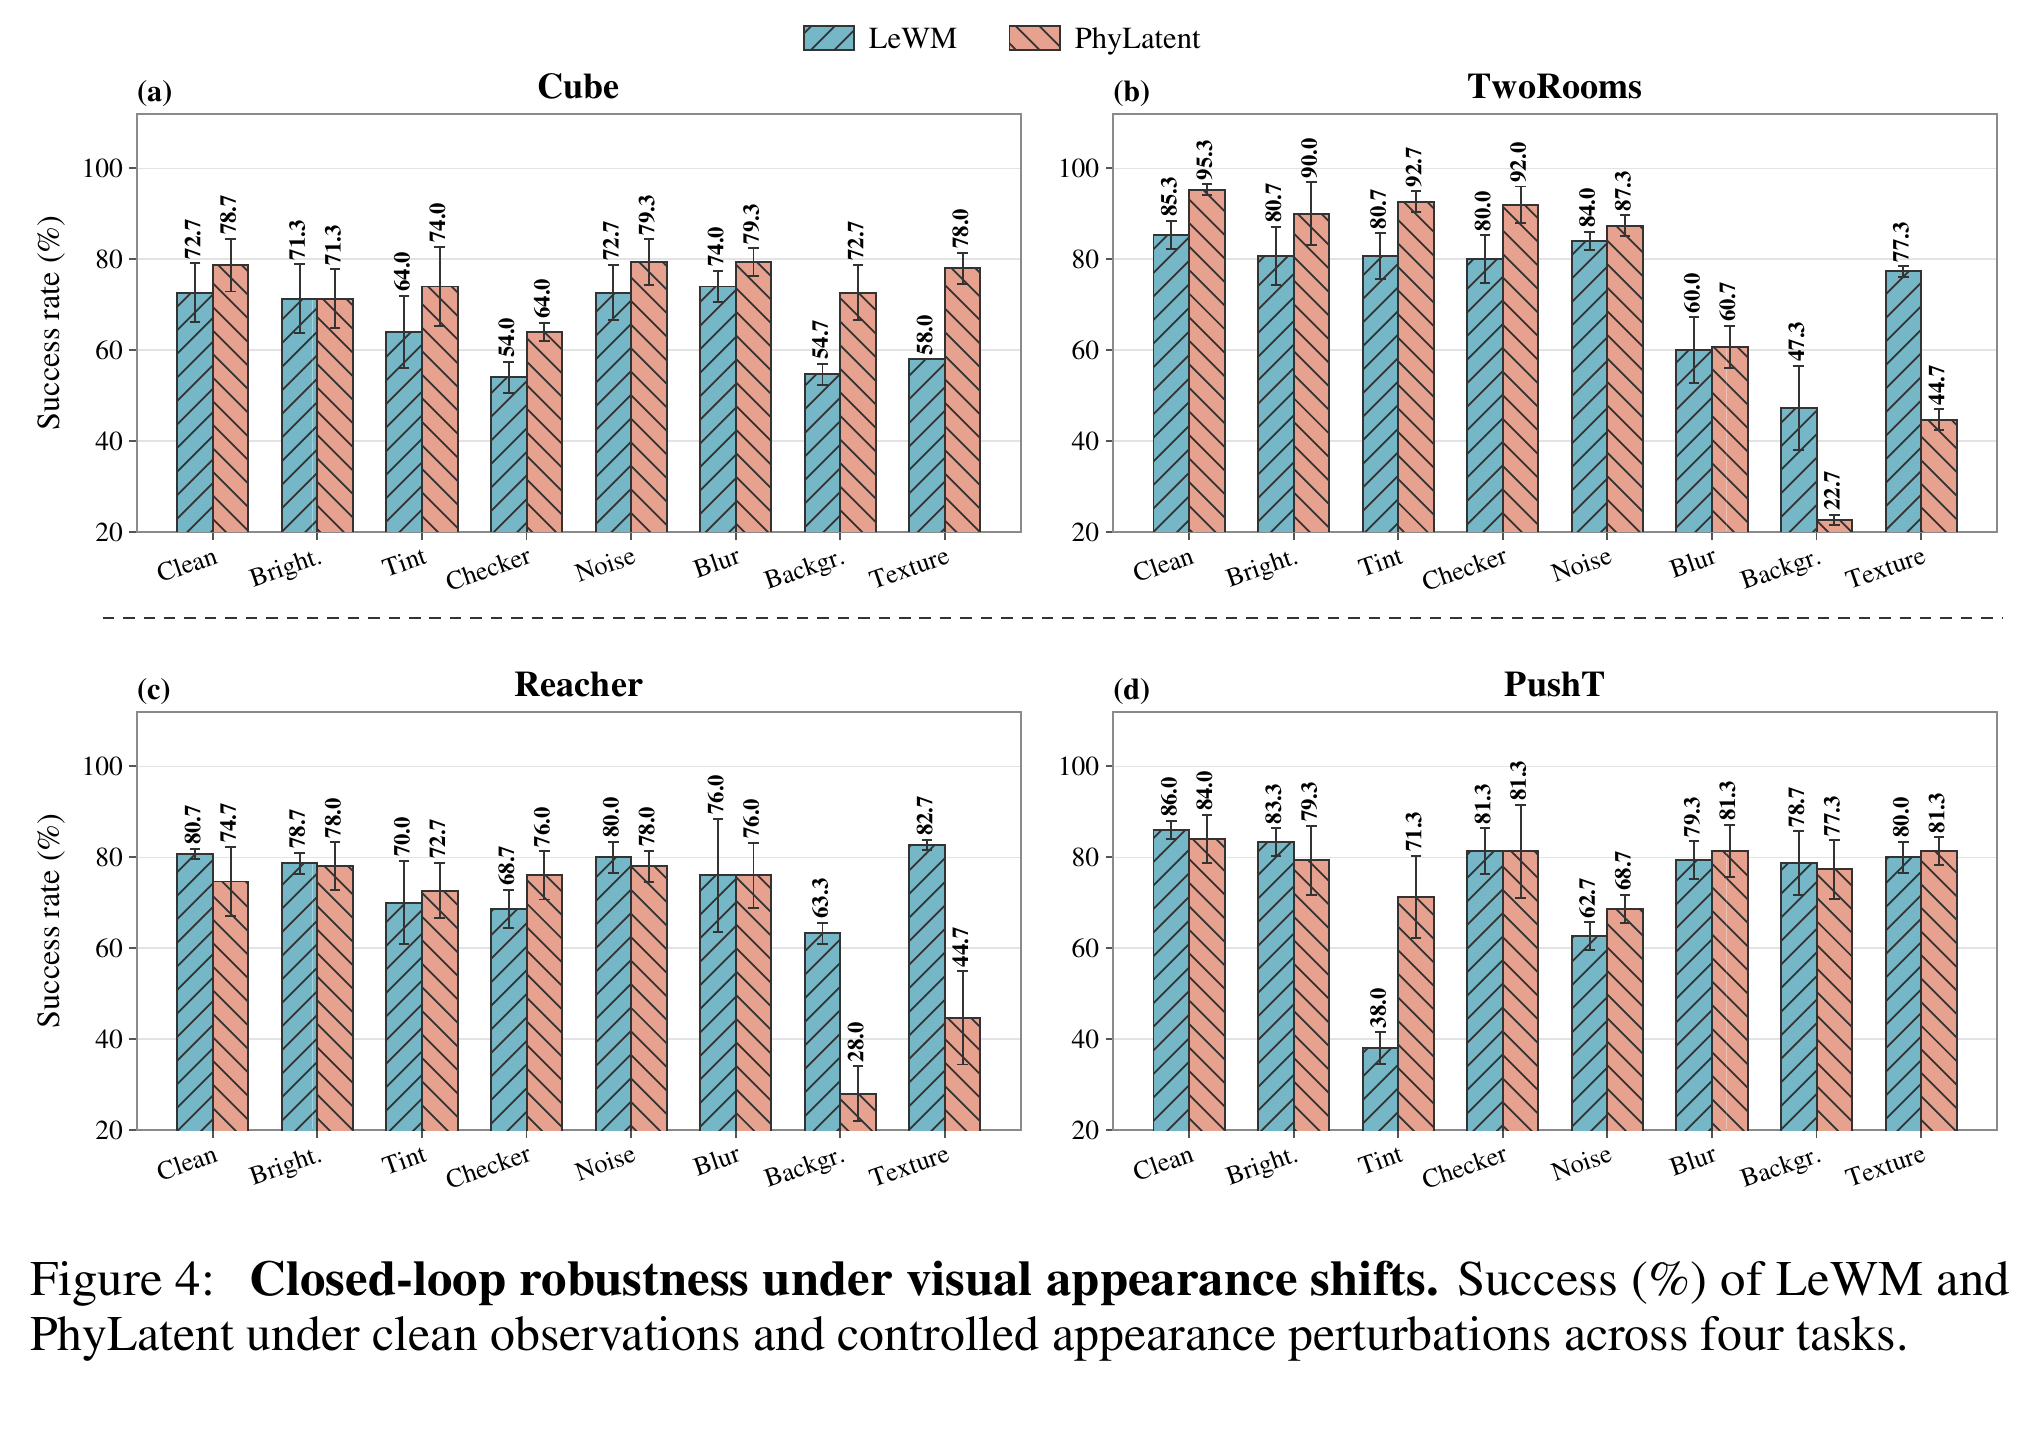
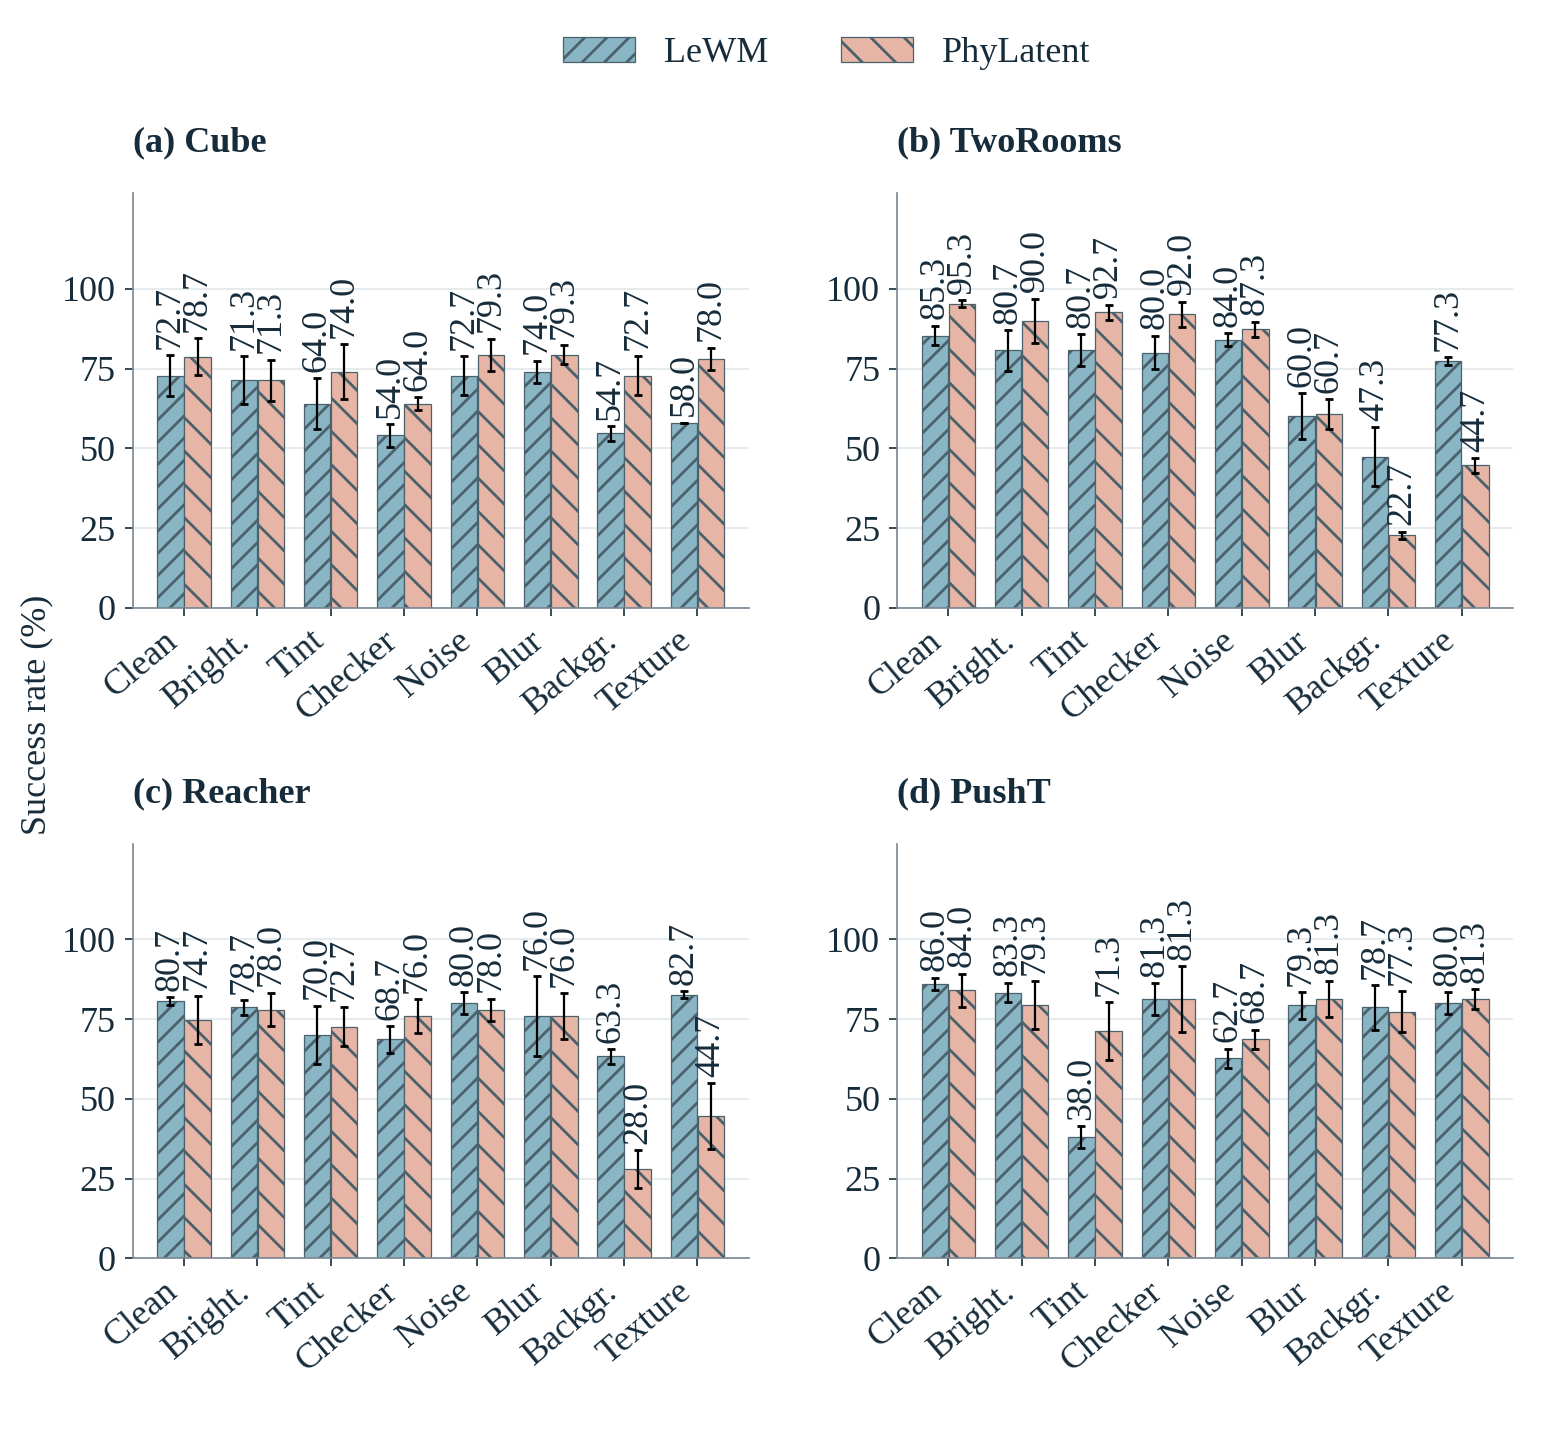
Redesign homepage and add paper experiment tables

diff --git a/README.md b/README.md
@@ -68,7 +68,9 @@ results support improving latent structure as a way to strengthen JEPA world mod
 
 ### Visualizing the diagnostics
 
-[![Cube collapse diagnostics](assets/readme/cube_cover_en.svg)](assets/videos/cube_three_cases_en.mp4?raw=true)
+<p align="center">
+  <a href="assets/videos/cube_three_cases_en.mp4?raw=true"><img src="assets/readme/cube_cover_en.svg" alt="Cube collapse diagnostics" width="780"></a>
+</p>
 
 [Download the Cube diagnostics video (MP4)](assets/videos/cube_three_cases_en.mp4?raw=true).
 The video illustrates the three diagnostic failures and shows LeWM / PhyLatent execution side by side.
@@ -81,7 +83,9 @@ More observation examples are in the [visual guide](docs/visualizations.md).
 With the same backbone and planner, PhyLatent raises average success over LeWM from **79.92% to 86.54%**.
 The largest gains are on Cube and TwoRooms; Reacher is effectively tied.
 
-[![Table 1. Planning success across four tasks](assets/results/planning_success.png)](https://arxiv.org/pdf/2608.05720#page=6)
+<p align="center">
+  <a href="https://arxiv.org/pdf/2608.05720#page=6"><img src="assets/results/planning_success.png" alt="Table 1. Planning success across four tasks" width="780"></a>
+</p>
 
 <sub>Table 1 · Success (%), mean ± standard deviation across six evaluation seeds. PLDM and DINO-WM are previously reported baselines.</sub>
 
@@ -90,7 +94,9 @@ The largest gains are on Cube and TwoRooms; Reacher is effectively tied.
 We measure whether physical relationships survive appearance changes, state encoding and future prediction.
 Collapse rates decrease across the four tasks; the counterfactual change on Reacher is small.
 
-[![Table 2. Invariance, distinguishability and counterfactual collapse rates](assets/results/collapse_rates.png)](https://arxiv.org/pdf/2608.05720#page=7)
+<p align="center">
+  <a href="https://arxiv.org/pdf/2608.05720#page=7"><img src="assets/results/collapse_rates.png" alt="Table 2. Invariance, distinguishability and counterfactual collapse rates" width="780"></a>
+</p>
 
 <sub>Table 2 · Lower is better. Inv.: invariance; Dist.: distinguishability; CF-H5: counterfactual dynamics at the planning horizon of five blocks.</sub>
 
@@ -102,26 +108,38 @@ Collapse rates decrease across the four tasks; the counterfactual change on Reac
 On Cube, PhyLatent handles background and texture changes better. The response varies by task;
 large appearance shifts remain difficult for TwoRooms and Reacher.
 
-[![Figure 4. Success under visual appearance shifts](assets/results/appearance_robustness.png)](https://arxiv.org/pdf/2608.05720#page=7)
+<p align="center">
+  <a href="https://arxiv.org/pdf/2608.05720#page=7"><img src="assets/results/appearance_robustness.png" alt="Figure 4. Success under visual appearance shifts" width="780"></a>
+</p>
+
+<sub>Success (%); error bars show the across-seed standard deviation.</sub>
 
 ### Planning over larger goal separations
 
 The paper tests temporal goal offsets and physical displacement. In Cube's largest displacement group,
 success rises from **26.67% to 60.00%**.
 
-[![Figure 5. Planning under increasing goal separation](assets/results/goal_separation.png)](https://arxiv.org/pdf/2608.05720#page=9)
+<p align="center">
+  <a href="https://arxiv.org/pdf/2608.05720#page=9"><img src="assets/results/goal_separation.png" alt="Figure 5. Planning under increasing goal separation" width="780"></a>
+</p>
 
 ### Supervision and objective weights
 
-[![Table 3. Privileged-state supervision and auxiliary-weight controls](assets/results/supervision_controls.png)](https://arxiv.org/pdf/2608.05720#page=8)
+<p align="center">
+  <a href="https://arxiv.org/pdf/2608.05720#page=8"><img src="assets/results/supervision_controls.png" alt="Table 3. Privileged-state supervision and auxiliary-weight controls" width="780"></a>
+</p>
+
+<sub>Success (%), with mean ± across-seed standard deviation for the weight comparison. Lower collapse rates are better.</sub>
 
 </details>
 
-All tables and plots above are taken directly from the [paper](https://arxiv.org/pdf/2608.05720).
+Full experimental settings and results are in the [paper](https://arxiv.org/pdf/2608.05720).
 
 ## <a id="demonstrations"></a><img src="assets/readme/section_demonstrations.svg" width="28" alt=""> Task demonstrations
 
-[![Four complete task demonstrations](assets/previews/four_tasks_preview.gif)](assets/videos/four_tasks_overview.mp4?raw=true)
+<p align="center">
+  <a href="assets/videos/four_tasks_overview.mp4?raw=true"><img src="assets/previews/four_tasks_preview.gif" alt="Four complete task demonstrations" width="780"></a>
+</p>
 
 [Download the four-task overview (MP4)](assets/videos/four_tasks_overview.mp4?raw=true), or download an individual rollout:
 
